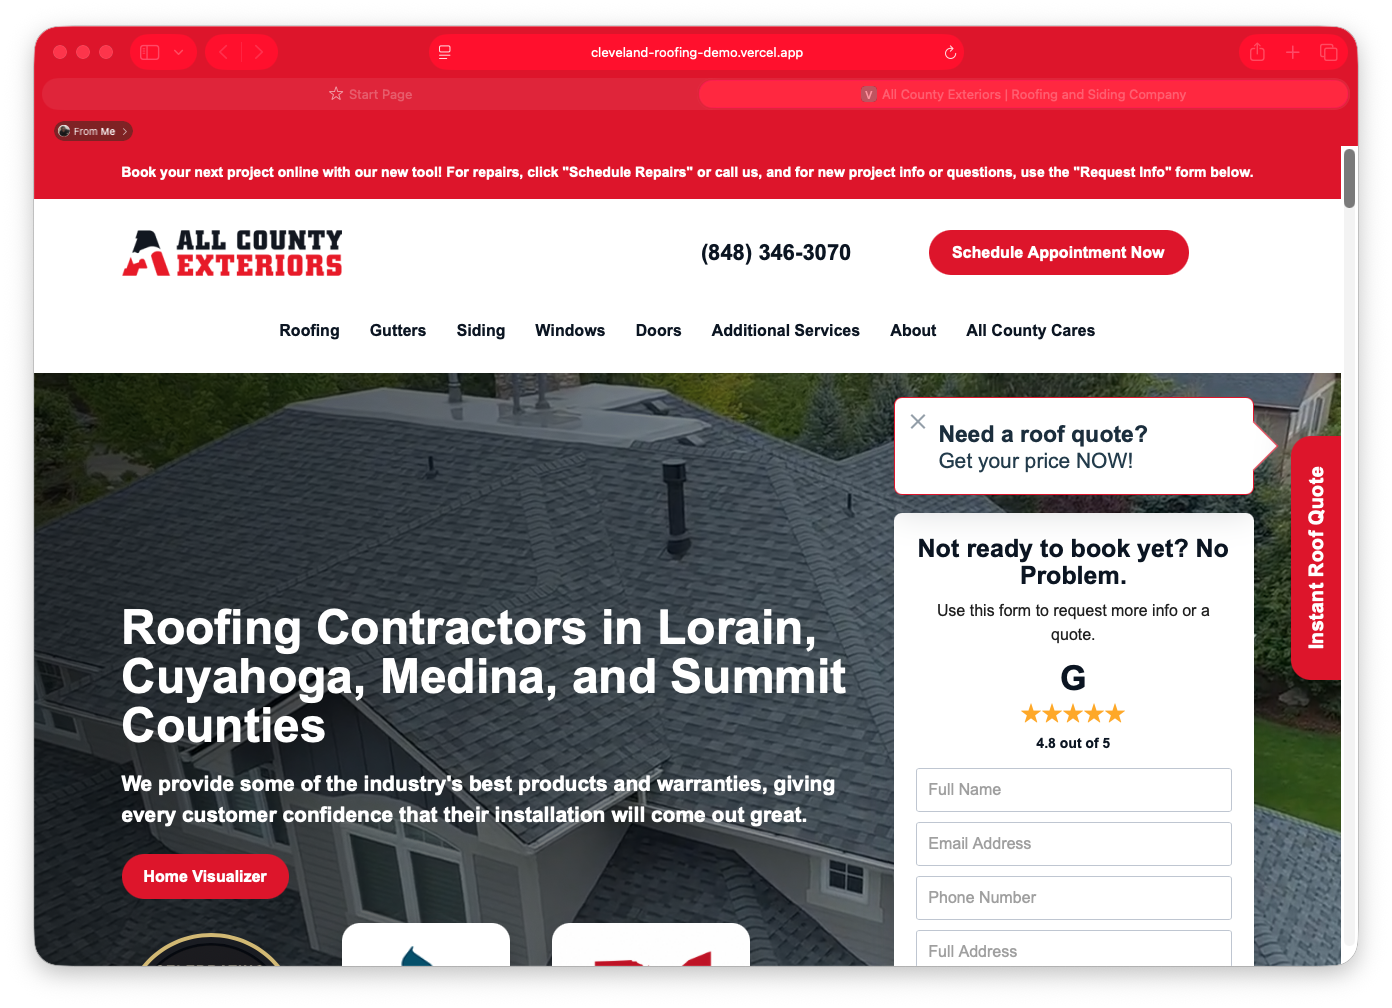
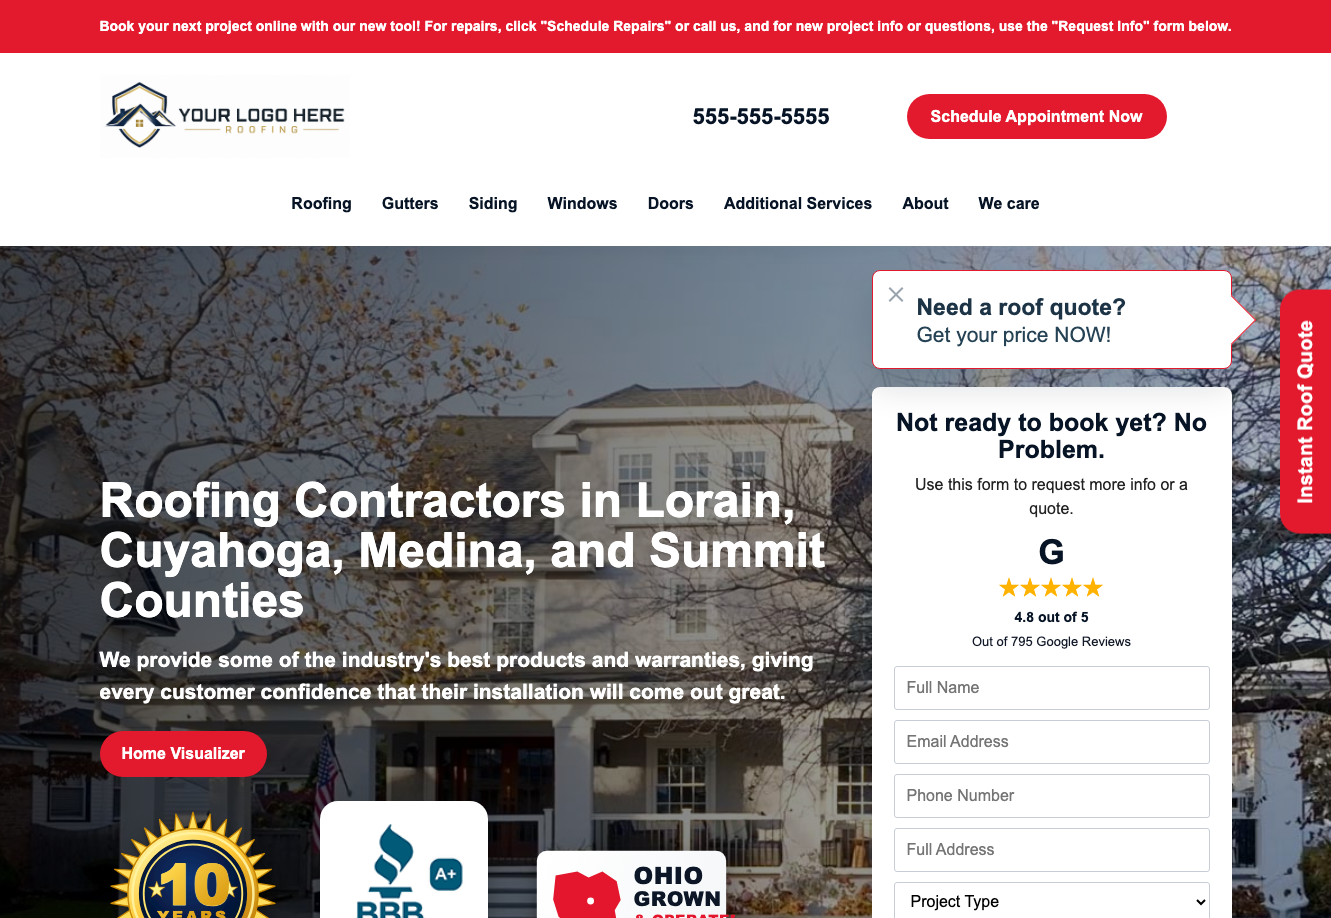
Use site screenshots for portfolio cards

diff --git a/styles.css b/styles.css
@@ -1062,31 +1062,14 @@
     }
 
     .work-shot--roofing img {
-      width: min(82%, 460px);
-      object-position: center center;
-      filter: saturate(1.02) contrast(1.06) brightness(0.98);
+      object-position: center top;
+      filter: saturate(1.02) contrast(1.05) brightness(0.95);
     }
 
     .work-shot--roofing::before {
       background:
         linear-gradient(135deg, rgba(14, 35, 64, 0.16), transparent 55%),
         linear-gradient(180deg, rgba(255, 255, 255, 0.06), rgba(12, 15, 20, 0.3));
-    }
-
-    .portfolio-preview-phone {
-      position: absolute;
-      left: 1rem;
-      bottom: 1rem;
-      z-index: 3;
-      padding: 0.45rem 0.7rem;
-      border-radius: 6px;
-      background: rgba(12, 15, 20, 0.76);
-      border: 1px solid rgba(255, 255, 255, 0.14);
-      color: var(--text-light);
-      font-family: var(--font-mono);
-      font-size: 0.72rem;
-      line-height: 1;
-      letter-spacing: 0.04em;
     }
 
     .work-shot-header {

diff --git a/index.html b/index.html
@@ -310,10 +310,9 @@
         </a>
 
         <a class="portfolio-card reveal reveal-delay-2" href="https://cleveland-roofing-demo.vercel.app" target="_blank" rel="noopener">
-          <div class="portfolio-preview portfolio-preview--logo work-shot work-shot--roofing">
-            <img src="assets/img/brand/your-logo-here-roofing.png" alt="Your Logo Here Roofing logo">
+          <div class="portfolio-preview work-shot work-shot--roofing">
+            <img src="assets/img/work-roofing-demo.png" alt="Your Logo Here Roofing website screenshot">
             <div class="portfolio-preview-overlay"><span>Roofing · Lead Generation</span></div>
-            <div class="portfolio-preview-phone">555-555-5555</div>
           </div>
           <div class="portfolio-info">
             <h3 class="portfolio-name">Your Logo Here Roofing <span class="arrow">↗</span></h3>